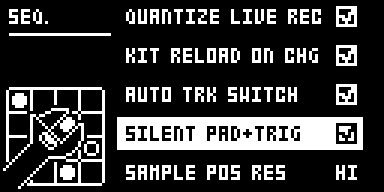
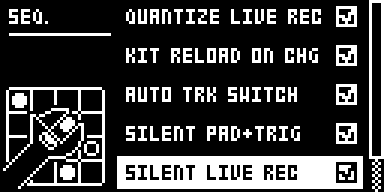
Silent Pad+Trig 0.5.0-experimental: emulator results, new captures
Build PS07 (core-ar2 0.3 + 0.5.0 on stock OS 1.74, Modwerk's linker):
936-byte .run, 5 sites, 20 relocations; links alone and beside
Filter Hz and Loop Sync. In rytm-emu c5732f0, against stock from
matched snapshots with neither, each and both rows checked: both
unchecked matches stock exactly in 26 groups; each setting gates only
its own column; a plain LIVE REC pad tap with SILENT LIVE REC neither
sounds nor records, FUNC + pad plays and records. Both rows persist
through power-off and per GLOBAL slot. No source change.

Evidence tier raised to emulator, tests.documentation restored, the
four screenshots recaptured from one PS07 cold boot, README and
TESTING.md updated (CHROMATIC TRIG keys and the 0.4.x upgrade reset
documented). Hardware stays untested for 0.5.0.

Changed region(s): [[0.2812, 0.0, 1.0, 1.0]]

diff --git a/sdk/analog-rytm-mkii/modules/_submissions/silent-pad-trig/TESTING.md b/sdk/analog-rytm-mkii/modules/_submissions/silent-pad-trig/TESTING.md
@@ -5,7 +5,7 @@ rytm2_mods; 0.4.1 renames the module, the row (SILENT PAD+TRIG), the source file
 the storage field (`silent_pad_trig_on`), with no change in behaviour. The sections below use the
 new names, also for the earlier builds.
 
-- Module: `silent-pad-trig` 0.4.1-experimental, for Analog Rytm MKII OS 1.74 on core-ar2 0.3.
+- Module: `silent-pad-trig` 0.5.0-experimental, for Analog Rytm MKII OS 1.74 on core-ar2 0.3.
 - Source: npp1993's own mod, first written as `pad-select` 0.2 in a local rytm2_mods checkout
   (commit `35ea2f0`, branch `claude/pad-select`), never published there; this folder is now the
   source, so the manifest names no upstream revision. 0.2.0-experimental here was that file byte for byte
@@ -13,9 +13,13 @@ new names, also for the earlier builds.
   `func_gate` and `drw_invoke` ([0.4.0](#040-pads-silent-in-live-rec-aftertouch-as-stock-2026-10-25);
   0.3.0's aftertouch hook and its site are gone again): `src/silent-pad-trig.s` `c96a146c…6c55` (renamed from `pad-select.s` in 0.4.1). `include/ar2-1.74.inc` (`c57431f7…874b`) is rytm2_mods'
   `include/ar2-1.74.inc`, byte for byte. Source fingerprint (`sha256` of
-  `sha256sum include/ar2-1.74.inc src/silent-pad-trig.s`): `2e521380…8ea5`.
+  `sha256sum include/ar2-1.74.inc src/silent-pad-trig.s`): `2e521380…8ea5`. 0.5.0's
+  `src/silent-pad-trig.s` is `22019c7f…53a7`, fingerprint `bf1ed603…cd2f` (`evidence.sourceSha256`).
 - Stock OS 1.74: `.syx` `cb0f99d6…e123`, main OS `34cd0c4d…1f3b`, the owner's file.
 - Core: elekloader core-ar2 0.3 (`core-ar2-v0.3`, `core-ar2-0.3.elemod` `6b97dfb3…3e58`, as vendored).
+- Build PS07 (core-ar2 0.3 + 0.5.0, Modwerk's linker, `--version PS07`): `.syx`
[1 lines of base64/hex data omitted]
+  Tested in rytm-emu 2026-10-27 ([0.5.0](#050-two-settings-2026-10-27)). Not run on a unit.
 - Build PS06 (core-ar2 0.3 + 0.4.1, Modwerk's linker, `--version PS06`): `.syx`
[1 lines of base64/hex data omitted]
   Tested in rytm-emu 2026-10-25. Not run on a unit.
@@ -46,10 +50,99 @@ Same five sites. Compiled in the cloud with Ubuntu's `m68k-linux-gnu` binutils 2
 storage fields. Source fingerprint (`sha256` of `sha256sum include/ar2-1.74.inc
 src/silent-pad-trig.s`): see `evidence.sourceSha256` in the manifest.
 
-**Pending:** the link on stock OS 1.74, the emulator run (both rows drawn and toggled; each
-column of the README table against stock with each setting alone, both, and neither; persistence
-and GLOBAL slots), new screenshots of the two rows, and a hardware run. The screenshots in
-`media/` still show 0.4.1's single row.
+**Build and link** (2026-10-27, on the owner's computer): Homebrew `m68k-elf` binutils/GCC,
+Node 24.21.0, as in [Source build and link](#source-build-and-link-020-2026-10-24). The recipe has
+a 936-byte `.run`, 5 sites (the same five), 20 relocations, no `.bss` and two global storage
+fields; core-ar2 0.3's allocator puts `silent_live_rec_on` at global bit 0 and
+`silent_pad_trig_on` at bit 1 (no lockfile). Linked with Modwerk's linker (`linkMods`):
+
+| Selection | Result | Main OS sha256 |
+| --- | --- | --- |
+| core-ar2 0.3 + Silent Pad+Trig (PS07) | links | `80a0fbfa…20b5` |
+| core-ar2 0.3 + Filter Hz 1.2.0 + Loop Sync 0.2.0-experimental + Silent Pad+Trig | links, no overlaps; both bits beside Loop Sync's sound and project fields | `54123495…f024` |
+
+The source-only export linked the same, alone and beside Filter Hz and Loop Sync. PS07 `.syx`:
+`eae28e8f…ae99`. It stays on the owner's computer.
+
+**Emulator** (emulator results, not hardware): [rytm-emu](https://github.com/trigcondition/rytm-emu)
+`c5732f0`, headless `dtboot` with the JIT, the same method, counters and key timing as the
+[0.2.0 runs](#emulator-020-2026-10-25). Five snapshots from one key sequence at the same clock
+(GLOBAL > CONTROL > SEQUENCER CONFIG, three DOWNs, YES or not, DOWN, YES or not, four NOs):
+**N** PS07 with neither row checked, **P** only SILENT PAD+TRIG, **L** only SILENT LIVE REC,
+**PL** both, and **S** stock 1.74 (no YES).
+
+- **Menu.** A PS07 cold boot shows SILENT PAD+TRIG and SILENT LIVE REC after AUTO TRK SWITCH, both
+  unchecked, their boxes in AUTO TRK SWITCH's column. YES on one row checks it and leaves the
+  other; RIGHT checks and LEFT unchecks only the highlighted row.
+- **Neither checked (N) against stock (S):** in all 26 groups below, the same counts, a
+  byte-identical MIDI out log and pixel-identical screens, apart from SEQUENCER CONFIG, which has
+  the two rows. The modelled analog output of a LIVE REC take is byte-identical between a run with
+  and without live recording when nothing is tapped, as on stock.
+
+| Group | S (stock) | P (SILENT PAD+TRIG) | L (SILENT LIVE REC) | PL (both) |
+| --- | --- | --- | --- | --- |
+| Stopped: SD, FUNC + SD, TRIG 5, FUNC + TRIG 5 | SD 127, FUNC + SD 100, TRIG 5 100, FUNC + TRIG 5 nothing | SD and TRIG 5 silent; FUNC + SD 127 | as S | as P |
+| Playing: SD, FUNC + SD, TRIG 5 | play (127, 100, 100) | SD and TRIG 5 silent; FUNC + SD 127 | as S | as P |
+| GRID REC: TRIG 3, SD, FUNC + SD, TRIG 3 | trigs placed; SD 127, FUNC + SD 100 | trigs placed; SD silent, FUNC + SD 127 | as S | as P |
+| LIVE REC: SD, FUNC + SD, TRIG 5, NO + SD | SD 127, FUNC + SD 100, TRIG 5 100; NO + SD reaches no play routine | as S | SD silent; FUNC + SD 127; TRIG 5 100; NO + SD as S | as L |
+| STEP REC: TRIG 3, TRIG 4, SD | TRIG keys pick steps; SD 127 | as S | as S | as S |
+| PERF, SCENE: SD, FUNC + SD, TRIG 3 | pads drive the mode; TRIG 3 plays | TRIG 3 silent | as S | as P |
+| MUTE: FUNC + SD twice, SD twice | mute CCs, no play routine | as S | as S | as S |
+| TRK + SD, TRK + TRIG 5; QPER + SD, QPER + TRIG 3; BANK A + TRIG 2, + TRIG 1 | no play routine | as S | as S | as S |
+| FIX on: SD, FUNC + SD | both 100 | SD silent, FUNC + SD 100 | as S | as P |
+| FX track: TRIG 3, then SD | play | silent | as S | as P |
+| TRIG 13, FUNC + TRIG 13, TRIG 16 | TRIG 13 plays (note 12) | TRIG 13 silent | as S | as P |
+| GLOBAL menu open: SD, FUNC + SD, TRIG 5 | play (127, 100, 100) | SD, TRIG 5 silent; FUNC + SD 127 | as S | as P |
+| LIVE REC, PLAY (ends it), SD, TRIG 5, PLAY, SD | play | silent | as S | as P |
+| RTRG + SD held; FUNC + RTRG + SD held | one trigger each (127; 100) | RTRG + SD silent; FUNC + RTRG + SD 127 | as S | as P |
+| SOUND BROWSER: SD, FUNC + SD, TRIG 3 | SD and FUNC + SD audition; TRIG 3 picks bank C | SD silent; FUNC + SD auditions at 127 | as S | as P |
+| Soft strikes: plain soft, FUNC + soft, FUNC + hard | 15, 100, 100 | silent, 15, 127 | as S | as P |
+| CHAIN, SONG, FILL: SD, TRIG 3 | play | silent | as S | as P |
+| CHROMATIC: SD, FUNC + SD, TRIG 3 | pads play their notes; TRIG 3 plays track 3 | pads as S; TRIG 3 silent | as S | as P |
+| MIDI note in; TRIG 3 + YES in GRID REC | voice trigger runs | as S | as S | as S |
+| SD held with pressure, then FUNC + SD held | note and poly pressure (`AD 01 …`) for both | plain hold: poly pressure, no note; FUNC + SD: note and pressure | as S | as P |
+| AUTO TRK SWITCH unchecked (LEFT on its row), then stopped SD, TRIG 5, FUNC + SD, then LIVE REC SD, TRIG 5 | all play, the track stays BD | stopped SD and TRIG 5 silent and select SD, then BT; FUNC + SD plays and stays BT; LIVE REC presses play, stay BT | stopped presses as S; LIVE REC SD silent and selects SD; TRIG 5 plays, stays SD | stopped as P; LIVE REC as L |
+
+Screens matched stock in every group and configuration, apart from SEQUENCER CONFIG and the
+selections AUTO TRK SWITCH off changes by design. Velocities are the MIDI note-on values on the
+auto channel.
+
+**Recording in LIVE REC.** The modelled analog output (`--analog-wav`, `DTEMU_ANALOG_SEED=1`) of
+RECORD + PLAY, a tap at 4.0 s, PLAY at 6.5 s (ends live recording; the sequencer plays on) and
+30 s in all. A tap that is recorded makes the take differ from a play-only run with the same tap
+from the recorded step's next pass on; runs from P, L and PL share one baseline (their untapped
+takes are byte-identical), so their takes compare directly:
+
+| Tap | S | P | L | PL |
+| --- | --- | --- | --- | --- |
+| SD | sounds (127) and is recorded: differs from the play-only tap from 5.89 s, one bar on | sounds and is recorded: byte-identical to PL's FUNC + SD | byte-identical to no tap: nothing sounded, nothing recorded | as L |
+| FUNC + SD | sounds (100) and is recorded (differs from the play-only tap from 5.93 s) | sounds (100), as S | byte-identical to PL's | sounds (127) and is recorded: differs from the play-only tap from 5.89 s |
+| TRIG 5 | sounds and is recorded (differs from the play-only tap from 7.78 s) | byte-identical to L's and PL's | sounds and is recorded (differs from the play-only tap from 7.78 s, as S) | byte-identical to L's |
+
+N gave the same results as S.
+
+**Persistence and GLOBAL slots** (fresh card images): one card with only SILENT PAD+TRIG checked,
+one with only SILENT LIVE REC, each followed by `--power-off`. A cold boot of PS07 on each shows
+its own row checked and the other unchecked; on the first, SD and TRIG 5 are silent, on the
+second they play. GLOBAL SLOT 2 shows both rows unchecked (with slot 2's own stock settings), and
+SD plays; RIGHT on SILENT LIVE REC checks it there; back in slot 1 its rows are as set. After a
+second power-off and cold boot, slot 1 and slot 2 still hold their own rows. Stock 1.74 cold-boots
+on the first card with the stock SEQUENCER CONFIG, and SD plays.
+
+**Upgrade from 0.4.1.** A card saved by PS06 with SILENT PAD+TRIG checked: PS07 cold-boots on it
+with both rows unchecked, and pads play. The new field changes core-ar2's storage layout, so the
+old bit is not carried over (README limitation).
+
+**Menu cycling.** From PL, SEQUENCER CONFIG opened and closed 30 times (YES, NO): every frame
+drawn as expected, the rows still checked, and afterwards SD silent and FUNC + SD at 127. The
+menu constructor site is not reached again while cycling: the view is built once.
+
+**Captures.** The four PNGs in `media/` come from one PS07 cold boot (command line in
+`media/capture.json`); a second identical run gave all 28 frames byte for byte.
+
+Not compared in the emulator: a paused LIVE REC, loading a saved project, Global SysEx receive,
+other modules beside it at run time, and sound beyond the modelled analog voices. No fix was
+needed: the source is as committed in 2746321a.
 
 ## Sites
 
@@ -360,8 +453,11 @@ The tester flashed PS05 (0.4.0, `.syx` `40e2f30a…2865`). Reported:
 
 Not yet reported on any build:
 
-1. GLOBAL > CONTROL > SEQUENCER CONFIG: SILENT PAD+TRIG after AUTO TRK SWITCH; YES and
-   LEFT/RIGHT toggle it. Save, power-cycle, reload: kept. Another GLOBAL slot keeps its own.
+1. GLOBAL > CONTROL > SEQUENCER CONFIG: SILENT PAD+TRIG and SILENT LIVE REC after AUTO TRK
+   SWITCH; YES and LEFT/RIGHT toggle each on its own. Save, power-cycle, reload: kept. Another
+   GLOBAL slot keeps its own.
+1b. 0.5.0: with only SILENT LIVE REC checked, pads play outside LIVE REC and are silent and not
+   recorded in it (FUNC + pad plays and records); with only SILENT PAD+TRIG, LIVE REC is stock.
 2. Stopped and playing: pads and TRIG 1-12 select silently; FUNC + pad plays, soft and hard,
    at the pad's velocity. Holding a pad on a sounding track does not cut its note on release.
    AUTO TRK SWITCH unchecked: a silent press selects, FUNC + pad does not.
@@ -377,12 +473,12 @@ Not yet reported on any build:
 
 ## Load and memory
 
-784 bytes in the shared DDR area, no `.bss`, no fast SRAM. The sites are in the pad and TRIG key
+936 bytes (0.5.0) in the shared DDR area, no `.bss`, no fast SRAM, two global storage bits. The sites are in the pad and TRIG key
 handlers and their play routine, and the SEQUENCER CONFIG menu's constructor. Each press reads
-one storage bit through `core_store_get` and the record state; nothing runs in the audio,
+the record state and one storage bit through `core_store_get`; nothing runs in the audio,
 sequencer or tick paths. Static reading, not a measurement.
 
 ## Not tested
 
-On a unit: everything. In the emulator: sound and timing, the flows listed above as not
+On a unit: 0.5.0 at all. In the emulator: sound and timing, the flows listed above as not
 compared, other modules beside it at run time, and loading a saved project.

diff --git a/sdk/analog-rytm-mkii/modules/_submissions/silent-pad-trig/README.md b/sdk/analog-rytm-mkii/modules/_submissions/silent-pad-trig/README.md
@@ -33,17 +33,17 @@ while the sequencer runs; a paused LIVE REC follows SILENT PAD+TRIG.
 This holds wherever stock would play a pressed pad or TRIG key: on any page, with a menu open, in
 the SOUND BROWSER, with the FX track selected, and in CHAIN, SONG, FILL, PERF and SCENE modes
 (where the pads keep their own jobs and only the TRIG keys stop playing). A silent press sends no
-MIDI note and leaves no held note, so its release cuts nothing the sequencer plays. CHROMATIC
-mode, MUTE mode, TRK + pad, QPER + pad, NO + pad, BANK + TRIG, MIDI notes in, TRIG + YES and the
-sequencer itself are as stock.
+MIDI note and leaves no held note, so its release cuts nothing the sequencer plays. In CHROMATIC
+mode the pads play as stock, and TRIG 1-12 select silently there too. MUTE mode, TRK + pad, QPER +
+pad, NO + pad, BANK + TRIG, MIDI notes in, TRIG + YES and the sequencer itself are as stock.
 
 Version **0.5.0-experimental** for Analog Rytm MKII OS **1.74**, with core-ar2 0.3. It is
 npp1993's own mod, not a port. It was first written as Pad Select (`pad-select` 0.2, row
 PAD+TRIG SEL TRK) in a local checkout of [rytm2_mods](https://github.com/Iced-Cream/rytm2_mods)
 that was never published there; Modwerk is its home. 0.4.x had one checkbox covering both columns
 above; 0.5.0 splits it in two so silent pads while editing and silent pads while live recording
-can be chosen separately. 0.3.0 and 0.4.0 ran on a unit; 0.5.0 has not yet run in the emulator or
-on a unit, so it waits in `_submissions/`.
+can be chosen separately. 0.3.0 and 0.4.0 ran on a unit; 0.5.0 ran in rytm-emu (build PS07) but
+not yet on a unit, so it waits in `_submissions/`.
 
 ## Controls
 
@@ -92,23 +92,28 @@ While a setting is checked, and only where it applies:
   press is silent; FUNC + pad auditions.
 - **With a menu open**, a pad or TRIG key no longer plays; FUNC + pad does.
 - **TRIG 13** plays the FX track on stock; checked, it is silent outside LIVE and STEP RECORDING.
+- **CHROMATIC mode**: the pads play their notes as stock; TRIG 1-12, which play their track there
+  on stock, select silently with SILENT PAD+TRIG, as in every other mode.
 - **With FIX (fixed velocity) on**, FUNC + pad plays at the fixed velocity, as stock pads do.
 - **With AUTO TRK SWITCH unchecked**, a silent press still selects its track; FUNC + pad, which plays, follows AUTO TRK SWITCH as stock and does not.
 
-Up to 0.4.1, with one setting, every mode that takes the pads, TRIG keys or FUNC was compared
-with stock in rytm-emu, from matched snapshots: PERF, SCENE, MUTE, CHROMATIC, CHAIN, SONG, FILL, FIX, QPER, TRK, BANK + TRIG,
-the FX track, the SOUND BROWSER, an open menu, GRID, LIVE and STEP RECORDING, NO + pad, RTRG,
-AUTO TRK SWITCH off, soft strikes, aftertouch, MIDI notes in, MIDI out and TRIG + YES (table in
-[TESTING.md](TESTING.md)). Unchecked, every one matched stock exactly.
+In 0.5.0 every mode that takes the pads, TRIG keys or FUNC was compared with stock in rytm-emu,
+from matched snapshots, with neither setting, each alone and both checked: PERF, SCENE, MUTE,
+CHROMATIC, CHAIN, SONG, FILL, FIX, QPER, TRK, BANK + TRIG, the FX track, the SOUND BROWSER, an open
+menu, GRID, LIVE and STEP RECORDING, NO + pad, RTRG, AUTO TRK SWITCH off, soft strikes, aftertouch,
+MIDI notes in, MIDI out and TRIG + YES (table in [TESTING.md](TESTING.md)). With both unchecked,
+every one matched stock exactly; checked, each setting changed only its own column above.
 
 ## Compatibility and limitations
 
 Requires core-ar2 0.3 on OS 1.74. Use your own original stock OS 1.74 file.
 
 - Built for OS 1.74 only.
-- **0.5.0 has not run yet**, in rytm-emu or on a unit. 0.4.0, with one setting for both
+- **0.5.0 has run only in rytm-emu**, not yet on a unit. 0.4.0, with one setting for both
   columns, ran on a unit (TESTING.md); MIDI out, STEP REC and several other flows are not yet
   tested there.
+- A unit that ran 0.4.x starts 0.5.0 with both rows unchecked: the storage layout changed (a new
+  field), so the old setting is not carried over. Check the rows again once.
 - FUNC + TRIG 1-12 plays nothing, as on stock.
 - A silent press passes its aftertouch on, so MIDI out can carry poly pressure with no note-on
   before it.
@@ -127,20 +132,21 @@ the pads, the TRIG keys or the SEQUENCER CONFIG menu.
 ## Tests and measurements
 
 See [TESTING.md](TESTING.md). In short: Modwerk's compiler builds this folder, and Modwerk's
-linker links it on the owner's stock OS 1.74 with core-ar2 0.3 alone and beside Filter Hz and
-Loop Sync. In rytm-emu the build boots, shows the row, and with it checked a pad press outside
-STEP RECORDING (or a TRIG press outside LIVE and STEP RECORDING) reaches the play routine but no
-voice trigger, no MIDI out and no recorded trig, while FUNC + pad plays, and records in LIVE
-RECORDING. Unchecked, every screen and every MIDI byte matched stock in the same
-run. The setting came back after a power-off and cold boot, and each GLOBAL slot keeps its own.
-Every other mode that takes the pads, TRIG keys or FUNC was compared too (see the table in
-TESTING.md), and a silent press left the modelled analog output byte-identical while the
-sequencer played. 0.3.0 (build PS04) ran on an Analog Rytm MKII: silent pads, FUNC + pad, no cut
-sequenced notes, the setting through a power cycle and per GLOBAL slot, as reported. 0.4.0 (PS05)
-ran on one too: silent LIVE REC pads with FUNC + pad recording, aftertouch on a silent hold, GRID
-REC, CHROMATIC and MUTE, as reported. Memory (0.5.0): a 936-byte `.run` in the 128 KiB shared mod area, no `.bss`, no
-fast SRAM. Nothing runs in the audio, sequencer or tick paths; each key press costs a few
-compares (static reading, not a measurement).
+linker links it on the owner's stock OS 1.74 with core-ar2 0.3 alone (build PS07) and beside
+Filter Hz and Loop Sync. In rytm-emu (emulator results, not hardware), PS07 cold-boots with both
+rows after AUTO TRK SWITCH, unchecked and drawn aligned, and YES, LEFT and RIGHT set each on its
+own. From matched snapshots against stock, with neither, each and both settings checked: both
+unchecked, every count, MIDI byte and screen matched stock in 26 groups; SILENT PAD+TRIG silenced
+pads and TRIG 1-12 outside LIVE and STEP RECORDING and nowhere else; SILENT LIVE REC silenced pads
+in LIVE RECORDING, and the modelled analog output showed a plain tap there neither sounded nor was
+recorded, while FUNC + pad played and recorded. FUNC + pad played at the strike's velocity, STEP
+REC stayed stock, aftertouch on a silent hold went out, and AUTO TRK SWITCH off behaved as designed.
+Both rows came back after a power-off and two cold boots, and GLOBAL slot 2 kept its own; opening
+SEQUENCER CONFIG 30 times caused no trouble. 0.3.0 (build PS04) and 0.4.0 (PS05), with one setting,
+ran on an Analog Rytm MKII, as reported; 0.5.0 has not run on hardware. Memory (0.5.0): a 936-byte
+`.run` in the 128 KiB shared mod area, no `.bss`, no fast SRAM, two storage bits. Nothing runs in
+the audio, sequencer or tick paths; each key press costs a few compares (static reading, not a
+measurement).
 
 ## Authorship and licences
 
@@ -161,22 +167,24 @@ No Elektron firmware is included.
 
 ## Screens and audio
 
-These captures are rytm-emu frames of PS06, the released core-ar2 0.3 and Silent Pad+Trig on stock OS
-1.74, from one cold boot. See [capture provenance](media/capture.json) for hashes and inputs. The
+These captures are rytm-emu frames of PS07, the released core-ar2 0.3 and Silent Pad+Trig 0.5.0 on
+stock OS 1.74, from one cold boot. See [capture provenance](media/capture.json) for hashes and inputs. The
 module changes which presses sound, not the sound itself, so there is no audio demonstration.
 
 ![CONTROL menu listing CONTROL INPUT 1, CONTROL INPUT 2 and SEQUENCER CONFIG.](media/control-menu.png)
 
-Open the GLOBAL menu and choose CONTROL: SEQUENCER CONFIG is its third item.
+Open the GLOBAL menu and choose CONTROL: SEQUENCER CONFIG, which holds both rows, is its third item.
 
-![SEQUENCER CONFIG list with the SILENT PAD+TRIG row highlighted and its box empty.](media/seq-config.png)
+![SEQUENCER CONFIG list with SILENT PAD+TRIG highlighted and SILENT LIVE REC below it, both boxes empty, after AUTO TRK SWITCH.](media/seq-config.png)
 
-SEQUENCER CONFIG gains SILENT PAD+TRIG just after AUTO TRK SWITCH, unchecked by default.
+SEQUENCER CONFIG gains two rows after AUTO TRK SWITCH, SILENT PAD+TRIG and SILENT LIVE REC, both
+unchecked by default.
 
-![SEQUENCER CONFIG list with the SILENT PAD+TRIG box checked.](media/seq-config-checked.png)
+![SEQUENCER CONFIG list with the SILENT PAD+TRIG and SILENT LIVE REC boxes both checked, SILENT LIVE REC highlighted.](media/seq-config-checked.png)
 
-Press YES (or RIGHT) to check it. The GLOBAL slot keeps it.
+Press YES (or RIGHT) on either row to check it; each is set on its own and the GLOBAL slot keeps both.
 
 ![SD track's SRC page with SNARE as the title, shown after a silent SD pad press.](media/silent-press.png)
 
-Back on the main screen, tapping the SD pad selects the SD track without a sound; FUNC + SD plays it.
+Back on the main screen with SILENT PAD+TRIG checked, tapping the SD pad selects the SD track
+without a sound; FUNC + SD plays it.
